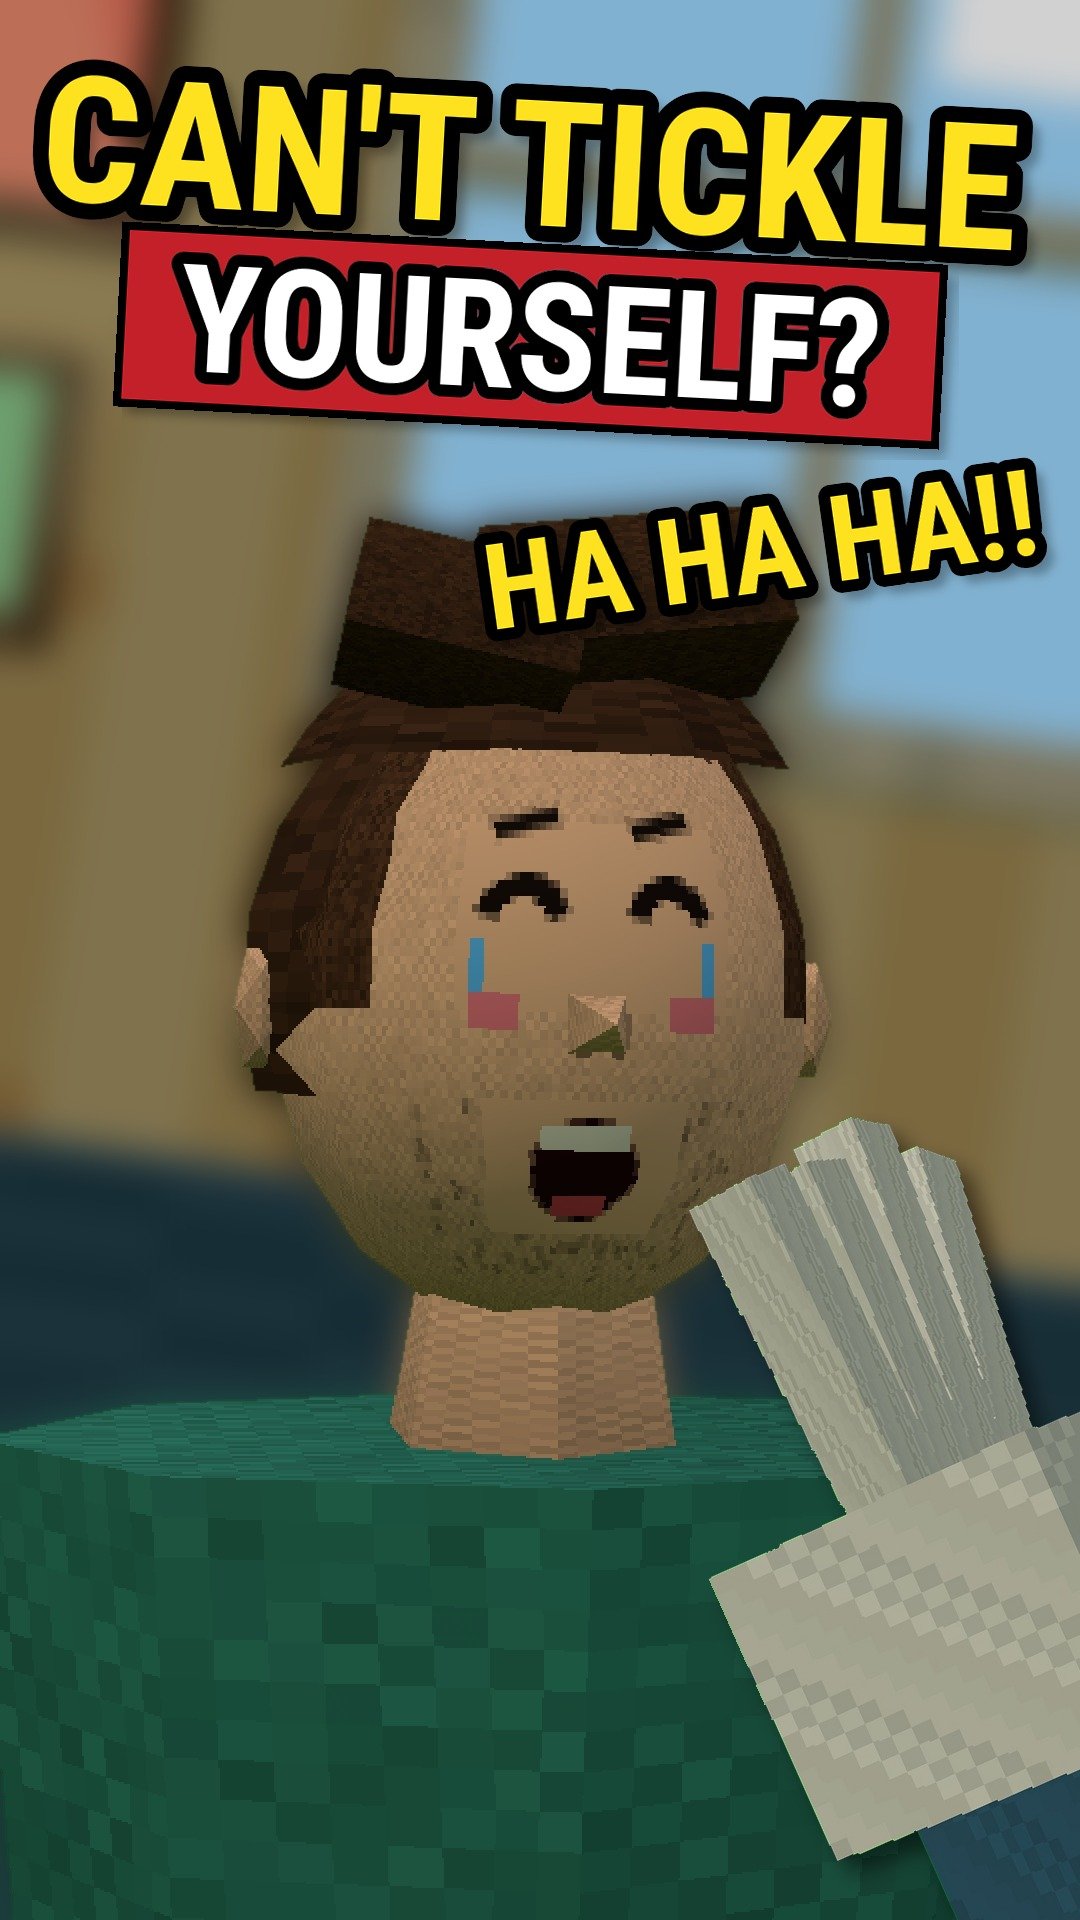
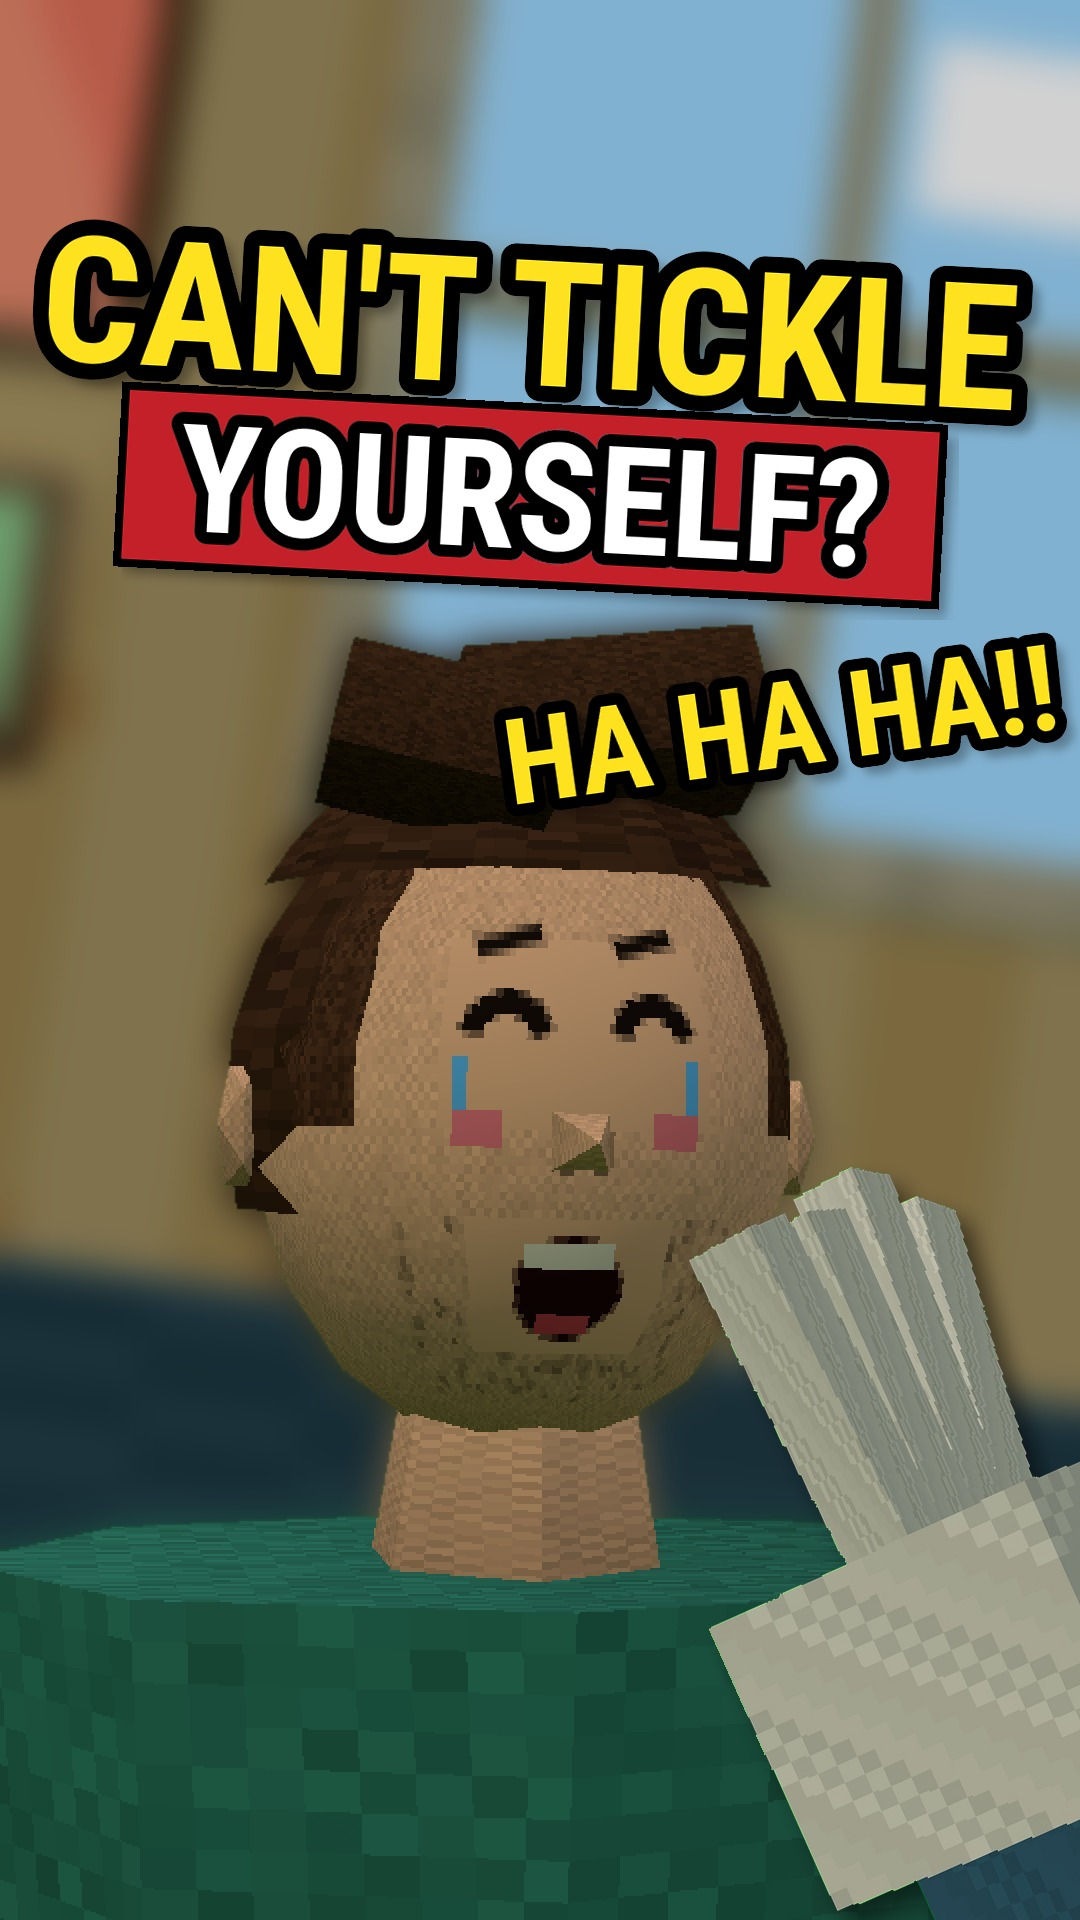
PosttimeLowPoly tickle cover v6: text moved into the safe zone (channel grid crops ~150 px top/bottom)
Claude-Session: https://claude.ai/code/session_01EUpLfkeMS9zWWcQnBujwnA

diff --git a/studio/lowpoly/tickle.js b/studio/lowpoly/tickle.js
@@ -86,6 +86,6 @@ Object.assign(SHOTS,{tcover2:(u,d,k)=>{tkEnv('home');show(POLY,TKP2,TKHAND);TKFE
 // ---- cover v3: ONE huge hero (the laughing face) on a vivid flat background; the tickling glove is rendered in its own pass (green screen) and composited big in the foreground by make_cover.py ----
 Object.assign(SHOTS,{tcover3:(u,d,k)=>{tkEnv('home');show(TKP2);
  TKP2.rest();TKP2.at(.21,0,0,.18);TKP2.face('laugh');TKP2.g.rotation.z=.12;TKP2.arms[0].rotation.set(-.2,0,-.95);TKP2.arms[1].rotation.set(-.2,0,.95);
- camTo([0,1.7,1.55],[0,1.7,1.55],[0,1.77,0],[0,1.77,0],0,40);cam.rotateZ(.14)},
- tcover3c:(u,d,k)=>{tkOff();S.background=new THREE.Color(0x00ff00);S.fog.color.set(0x00ff00);HEMI.intensity=1.2;show(TKP2);TKP2.rest();TKP2.at(.21,0,0,.18);TKP2.face('laugh');TKP2.g.rotation.z=.12;TKP2.arms[0].rotation.set(-.2,0,-.95);TKP2.arms[1].rotation.set(-.2,0,.95);camTo([0,1.7,1.55],[0,1.7,1.55],[0,1.77,0],[0,1.77,0],0,40);cam.rotateZ(.14)},
+ camTo([0,1.7,1.55],[0,1.7,1.55],[0,1.84,0],[0,1.84,0],0,40);cam.rotateZ(.14)},
+ tcover3c:(u,d,k)=>{tkOff();S.background=new THREE.Color(0x00ff00);S.fog.color.set(0x00ff00);HEMI.intensity=1.2;show(TKP2);TKP2.rest();TKP2.at(.21,0,0,.18);TKP2.face('laugh');TKP2.g.rotation.z=.12;TKP2.arms[0].rotation.set(-.2,0,-.95);TKP2.arms[1].rotation.set(-.2,0,.95);camTo([0,1.7,1.55],[0,1.7,1.55],[0,1.84,0],[0,1.84,0],0,40);cam.rotateZ(.14)},
  tcover3g:(u,d,k)=>{tkOff();S.background=new THREE.Color(0x00ff00);S.fog.color.set(0x00ff00);HEMI.intensity=1.5;show(TKHAND);TKHAND.userData.f.forEach((f,i)=>f.rotation.x=-.3+i*.14);TKHAND.rotation.set(Math.PI/2,0,.5);TKHAND.position.set(0,0,0);camTo([0,.1,3.4],[0,.1,3.4],[0,0,0],[0,0,0],0,40)}});

diff --git a/studio/lowpoly/cover_tickle.py b/studio/lowpoly/cover_tickle.py
@@ -23,14 +23,14 @@ for y in range(gl.size[1]):
         if g>150 and r<120 and b<120:px[x,y]=(0,0,0,0)
 gl=gl.crop(gl.getbbox());s=1050/gl.size[1];gl=gl.resize((int(gl.size[0]*s),1050),Image.NEAREST).rotate(24,expand=True,resample=Image.BICUBIC)
 sh=Image.new('RGBA',gl.size,(0,0,0,0));sh.putalpha(gl.split()[3].point(lambda v:int(v*.5)));sh=sh.filter(ImageFilter.GaussianBlur(10))
-base=im.convert('RGBA');gx,gy=560,1010;base.paste(sh,(gx+14,gy+14),sh);base.paste(gl,(gx,gy),gl);im=base
+base=im.convert('RGBA');gx,gy=560,1060;base.paste(sh,(gx+14,gy+14),sh);base.paste(gl,(gx,gy),gl);im=base
 def tl(txt,f,fill,sw,stroke=(0,0,0,255)):
     b=f.getbbox(txt,stroke_width=sw);L=Image.new('RGBA',(b[2]-b[0]+40,b[3]-b[1]+40),(0,0,0,0));ImageDraw.Draw(L).text((20-b[0],20-b[1]),txt,font=f,fill=fill,stroke_width=sw,stroke_fill=stroke);return L
 def drop(L,off=10,blur=6):
     s=Image.new('RGBA',L.size,(0,0,0,0));s.putalpha(L.split()[3].point(lambda v:int(v*.55)));s=s.filter(ImageFilter.GaussianBlur(blur));o=Image.new('RGBA',(L.size[0]+2*off,L.size[1]+2*off),(0,0,0,0));o.paste(s,(off,off),s);o.paste(L,(0,0),L);return o
 def put(L,cx,cy,rot=0):
     L=drop(L.rotate(rot,expand=True,resample=Image.BICUBIC));im.paste(L,(cx-L.size[0]//2,cy-L.size[1]//2),L)
-f1=ImageFont.truetype(F,176);put(tl("CAN'T TICKLE",f1,(255,226,31,255),16),W//2,170,-3)
-f2=ImageFont.truetype(F,150);t=tl("YOURSELF?",f2,(255,255,255,255),12);bw,bh=t.size[0]+60,t.size[1]+10;ban=Image.new('RGBA',(bw,bh),(0,0,0,0));d=ImageDraw.Draw(ban);d.rectangle([0,0,bw-1,bh-1],fill=(196,32,42,255),outline=(0,0,0,255),width=8);ban.paste(t,(30,5),t);put(ban,W//2,345,-3)
-fh=ImageFont.truetype(F,120);put(tl("HA HA HA!!",fh,(255,226,31,255),12),770,560,8)
+f1=ImageFont.truetype(F,176);put(tl("CAN'T TICKLE",f1,(255,226,31,255),16),W//2,330,-3)
+f2=ImageFont.truetype(F,150);t=tl("YOURSELF?",f2,(255,255,255,255),12);bw,bh=t.size[0]+60,t.size[1]+10;ban=Image.new('RGBA',(bw,bh),(0,0,0,0));d=ImageDraw.Draw(ban);d.rectangle([0,0,bw-1,bh-1],fill=(196,32,42,255),outline=(0,0,0,255),width=8);ban.paste(t,(30,5),t);put(ban,W//2,505,-3)
+fh=ImageFont.truetype(F,120);put(tl("HA HA HA!!",fh,(255,226,31,255),12),790,735,8)
 im.convert('RGB').save(H+'/topics/tickle.cover.jpg',quality=92);print(os.path.getsize(H+'/topics/tickle.cover.jpg')//1024,'KB')
